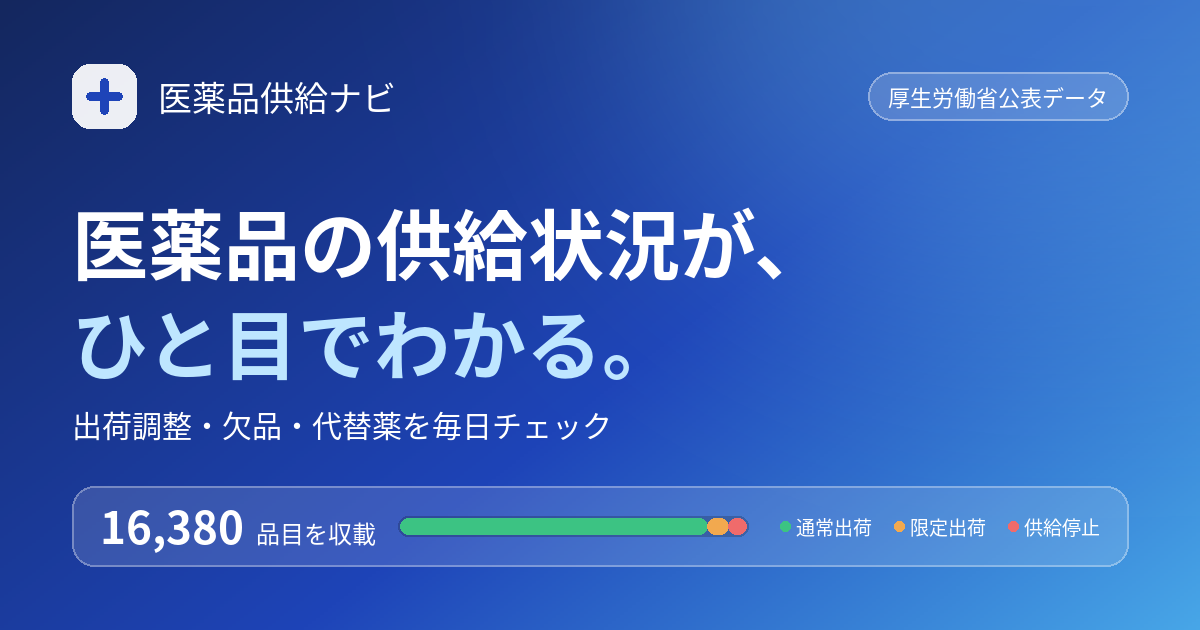
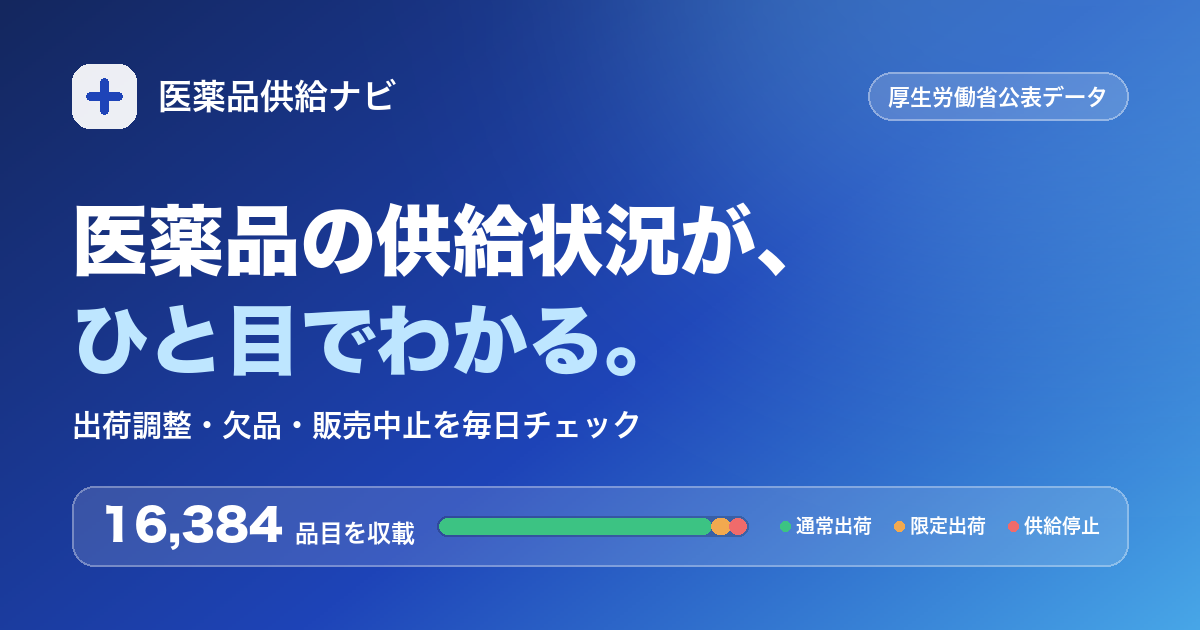
公開Web版の安全表現とスマホ検索導線を改善 (#12)

diff --git a/index.html b/index.html
@@ -3,10 +3,10 @@
 <head>
 <meta charset="UTF-8">
 <meta name="viewport" content="width=device-width, initial-scale=1.0">
-<title>医薬品供給ナビ — 出荷調整・欠品・代替薬を毎日チェック</title>
-<meta name="description" content="厚生労働省の医薬品供給状況データを、毎日自動更新でどこよりも見やすく。限定出荷・供給停止・販売中止をスマホでもPCでも一瞬で確認できる医薬品供給ナビ。">
+<title>医薬品供給ナビ — 出荷調整・欠品・販売中止を毎日チェック</title>
+<meta name="description" content="厚生労働省の医薬品供給状況データを毎日自動更新。限定出荷・供給停止・販売中止と、同成分・同剤形の関連品目をスマホでもPCでも確認できます。">
 <meta property="og:title" content="医薬品供給ナビ">
-<meta property="og:description" content="出荷調整・欠品・代替薬を毎日チェック。厚労省データを最速・最良のUIで。">
+<meta property="og:description" content="出荷調整・欠品・販売中止と、同成分・同剤形の関連品目を毎日チェック。厚労省データを見やすく検索。">
 <meta property="og:type" content="website">
 <meta property="og:url" content="https://tkiyo1007-eng.github.io/drugs-data/">
 <meta property="og:image" content="https://tkiyo1007-eng.github.io/drugs-data/og_image.png">
@@ -15,7 +15,7 @@
 <meta property="og:image:alt" content="医薬品供給ナビの供給状況サマリー">
 <meta name="twitter:card" content="summary_large_image">
 <meta name="twitter:title" content="医薬品供給ナビ">
-<meta name="twitter:description" content="出荷調整・欠品・代替薬を毎日チェック。厚労省データを最速・最良のUIで。">
+<meta name="twitter:description" content="出荷調整・欠品・販売中止と、同成分・同剤形の関連品目を毎日チェック。厚労省データを見やすく検索。">
 <meta name="twitter:image" content="https://tkiyo1007-eng.github.io/drugs-data/og_image.png">
 <meta name="twitter:image:alt" content="医薬品供給ナビの供給状況サマリー">
 <meta name="apple-itunes-app" content="app-id=6777696446">
@@ -34,7 +34,7 @@
       "name": "医薬品供給ナビ",
       "alternateName": "いやくひんきょうきゅうなび",
       "url": "https://tkiyo1007-eng.github.io/drugs-data/",
-      "description": "厚生労働省の医薬品供給状況データを毎日自動更新。限定出荷・供給停止・販売中止・代替薬をスマホでもPCでも一瞬で確認。",
+      "description": "厚生労働省の医薬品供給状況データを毎日自動更新。限定出荷・供給停止・販売中止と、同成分・同剤形の関連品目をスマホでもPCでも確認。",
       "inLanguage": "ja"
     },
     {
@@ -44,7 +44,7 @@
       "applicationCategory": "MedicalApplication",
       "url": "https://apps.apple.com/jp/app/id6777696446",
       "offers": { "@type": "Offer", "price": "0", "priceCurrency": "JPY" },
-      "description": "出荷調整・欠品・代替薬を毎日チェックできる無料iOSアプリ。厚労省の医薬品供給状況データ約16,000品目を毎日自動更新。"
+      "description": "出荷調整・欠品・販売中止を毎日チェックできる無料iOSアプリ。厚労省の医薬品供給状況データ約16,000品目を毎日自動更新。"
     },
     {
       "@type": "FAQPage",
@@ -299,6 +299,26 @@ h1 .grad{
 .chip2{bottom:-20px;right:-16px;color:var(--stopped);animation-delay:1.6s}
 @keyframes float{0%,100%{transform:translateY(0)}50%{transform:translateY(-9px)}}
 @media(max-width:900px){.chip1{left:0}.chip2{right:0}}
+
+/* スマホでは検索が最初の画面から遠くならないよう、ヒーローを要点だけに圧縮する。
+   App Store導線は固定ナビにもあるため、ヒーロー内はWeb検索を主導線にする。 */
+@media(max-width:640px){
+  nav{top:10px;width:calc(100% - 20px);padding:8px 10px 8px 14px}
+  .brand{font-size:14px}.brand-mark{width:32px;height:32px}
+  .nav-cta{padding:8px 14px;font-size:12.5px}
+  header{padding:82px 20px 20px;gap:14px}
+  .eyebrow{margin-bottom:14px;padding:5px 11px;font-size:11.5px}
+  h1{font-size:32px;margin-bottom:10px}
+  .lede{font-size:14px;line-height:1.7;margin-bottom:16px}
+  header .btn-primary,header .hero-note{display:none}
+  .btn-ghost{padding:11px 18px;font-size:14px}
+  .pulse-card{padding:18px 20px;border-radius:22px}
+  .pulse-total{font-size:36px;margin-top:7px}
+  .pulse-sub,.supply-bar,.legend,.float-chip{display:none}
+  main section{padding:52px 20px}
+  #demo{padding-top:28px}
+  #demo .sec-lede{margin-bottom:24px}
+}
 
 /* ===== セクション共通 ===== */
 section{max-width:1120px;margin:0 auto;padding:76px 24px}
@@ -991,7 +1011,7 @@ footer a:hover{color:var(--blue)}
   <div>
     <span class="eyebrow"><span class="pulse"></span>厚生労働省データ・毎日自動更新</span>
     <h1><span class="nb">医薬品の</span><span class="nb">供給状況が、</span><br><span class="grad">ひと目でわかる。</span></h1>
-    <p class="lede">限定出荷・供給停止・販売中止・代替薬。現場が毎日確認するその情報を、厚労省の公式データからどこよりも速く、どこよりも見やすく。薬剤師・医療従事者のための供給状況チェックツールです。</p>
+    <p class="lede">限定出荷・供給停止・販売中止と、同成分・同剤形の関連品目を、厚労省データから速く、見やすく確認。薬剤師・医療従事者のための供給状況チェックツールです。</p>
     <div class="cta-row">
       <a class="btn-primary" href="https://apps.apple.com/jp/app/%E5%8C%BB%E8%96%AC%E5%93%81%E4%BE%9B%E7%B5%A6%E3%83%8A%E3%83%93/id6777696446" target="_blank" rel="noopener">
         <svg width="18" height="18" viewBox="0 0 24 24" fill="currentColor"><path d="M18.7 12.6c0-3 2.5-4.5 2.6-4.6-1.4-2.1-3.6-2.4-4.4-2.4-1.9-.2-3.6 1.1-4.6 1.1-.9 0-2.4-1.1-4-1-2 0-3.9 1.2-5 3-2.1 3.7-.5 9.1 1.5 12.1 1 1.5 2.2 3.1 3.8 3 1.5-.1 2.1-1 3.9-1s2.4 1 4 1 2.7-1.5 3.7-2.9c1.2-1.7 1.6-3.3 1.7-3.4-.1-.1-3.2-1.3-3.2-4.9zM15.6 3.5c.8-1 1.4-2.4 1.2-3.5-1.2 0-2.7.8-3.5 1.8-.8.9-1.5 2.3-1.3 3.7 1.4.1 2.8-.9 3.6-2z"/></svg>
@@ -1109,7 +1129,7 @@ footer a:hover{color:var(--blue)}
     </div>
     <div class="news-item">
       <div class="news-date num">2026.07.21</div>
-      <div class="news-body"><span class="news-tag">改善</span>詳細画面の「同成分・同剤形の品目」「同じ薬効分類の同系統医薬品」の並び順を改善しました。薬価削除予定の品目が「入手しやすい代替品」として上位に出ないよう調整しています。</div>
+      <div class="news-body"><span class="news-tag">改善</span>詳細画面の関連品目を「同成分・同剤形」に限定しました。薬価削除予定の品目が「入手しやすい品目」として上位に出ないよう調整しています。</div>
     </div>
     <div class="news-item">
       <div class="news-date num">2026.07.20</div>
@@ -1121,11 +1141,11 @@ footer a:hover{color:var(--blue)}
     </div>
     <div class="news-item">
       <div class="news-date num">2026.07.17</div>
-      <div class="news-body"><span class="news-tag">機能追加</span>出荷調整品の詳細に「案内文のポイント（AI要約）」を追加しました。メーカー案内文PDFの要点（停止理由・再開見込み・代替候補）が3行でわかります。<p>あわせて、PMDA新着の回収・安全対策情報をまとめた「医療ニュース」をお知らせ欄に開設。同成分・同分類の関連品目一覧も、剤形・系統まで一致するものに絞り込んで精度を改善しました。</p><p>薬価データも大幅拡充（収載品目の約95%をカバー）。iOSアプリ版v1.5にも同じ機能が搭載されます。</p></div>
+      <div class="news-body"><span class="news-tag">機能追加</span>出荷調整品の詳細に「案内文のポイント（AI要約）」を追加しました。メーカー案内文PDFの要点（停止理由・再開見込み・案内文に記載された候補）が3行でわかります。<p>あわせて、PMDA新着の回収・安全対策情報をまとめた「医療ニュース」をお知らせ欄に開設。同成分・同剤形の関連品目一覧も、剤形・系統まで一致するものに絞り込んで精度を改善しました。</p><p>薬価データも大幅拡充（収載品目の約95%をカバー）。iOSアプリ版v1.5にも同じ機能が搭載されます。</p></div>
     </div>
     <div class="news-item">
       <div class="news-date num">2026.07.12</div>
-      <div class="news-body"><span class="news-tag">機能追加</span>Web版に、iOSアプリ版の新機能をまとめて追加しました。<p>【お気に入り】品目の★を押すとこのブラウザに保存され、供給状況が変わったとき検索結果の上にお知らせが表示されます（定点観測がWebでも可能に）。</p><p>【本日の更新】絞り込みに「本日の更新」が加わり、その日実際に供給状況が変わった品目だけを一覧できます。</p><p>【詳細画面】添付文書を探せるPMDA公式検索へのリンク（品目名入力済み）、出荷再開・解除の見込み、同成分の他社品・同じ薬効分類の医薬品の一覧を追加しました。</p><p>【CSV保存】検索結果をCSVファイルとしてダウンロードできるようになりました（DI業務のリスト作成に）。</p></div>
+      <div class="news-body"><span class="news-tag">機能追加</span>Web版に、iOSアプリ版の新機能をまとめて追加しました。<p>【お気に入り】品目の★を押すとこのブラウザに保存され、供給状況が変わったとき検索結果の上にお知らせが表示されます（定点観測がWebでも可能に）。</p><p>【本日の更新】絞り込みに「本日の更新」が加わり、その日実際に供給状況が変わった品目だけを一覧できます。</p><p>【詳細画面】添付文書を探せるPMDA公式検索へのリンク（品目名入力済み）、出荷再開・解除の見込み、同成分・同剤形の関連品目一覧を追加しました。</p><p>【CSV保存】検索結果をCSVファイルとしてダウンロードできるようになりました（DI業務のリスト作成に）。</p></div>
     </div>
     <div class="news-item">
       <div class="news-date num">2026.07.11</div>
@@ -1137,7 +1157,7 @@ footer a:hover{color:var(--blue)}
     </div>
     <div class="news-item">
       <div class="news-date num">2026.07.08</div>
-      <div class="news-body"><span class="news-tag">機能追加</span>薬品名クリックで詳細情報を表示できるようになりました。規格・薬価・代替候補など、厚生労働省データの全項目を確認できます。<p>あわせて複数キーワードでの絞り込み検索にも対応しました。</p></div>
+      <div class="news-body"><span class="news-tag">機能追加</span>薬品名クリックで詳細情報を表示できるようになりました。規格・薬価・解除／解消見込み・出荷量状況など、厚生労働省データの各項目を確認できます。<p>あわせて複数キーワードでの絞り込み検索にも対応しました。</p></div>
     </div>
     <div class="news-item">
       <div class="news-date num">2026.07.07</div>
@@ -1174,7 +1194,7 @@ footer a:hover{color:var(--blue)}
     <div class="feature glass">
       <div class="f-icon"><svg width="24" height="24" viewBox="0 0 24 24" fill="none" stroke="currentColor" stroke-width="2" stroke-linecap="round" stroke-linejoin="round"><path d="M21 15a2 2 0 0 1-2 2H7l-4 4V5a2 2 0 0 1 2-2h14a2 2 0 0 1 2 2z"/></svg></div>
       <h3>現場の声が集まる掲示板</h3>
-      <p>「この代替薬で乗り切っている」──同じ悩みを持つ医療従事者どうしで情報交換できるコミュニティを内蔵しています。</p>
+      <p>「この状況にどう対応しているか」──同じ悩みを持つ医療従事者どうしで情報交換できるコミュニティを内蔵しています。</p>
     </div>
     <div class="feature glass">
       <div class="f-icon"><svg width="24" height="24" viewBox="0 0 24 24" fill="none" stroke="currentColor" stroke-width="2" stroke-linecap="round" stroke-linejoin="round"><rect x="5" y="2" width="14" height="20" rx="3"/><path d="M12 18h.01"/></svg></div>
@@ -1199,7 +1219,7 @@ footer a:hover{color:var(--blue)}
         <tr><th scope="row">変化のあった品目の時系列表示</th><td class="col-us yes">◎ 前日差分を自動検出</td><td class="no">— 各回のスナップショットのみ</td></tr>
         <tr><th scope="row">お気に入り登録・定点観測</th><td class="col-us yes">◎ 変化があればお知らせ</td><td class="no">—</td></tr>
         <tr><th scope="row">全体像のサマリー可視化</th><td class="col-us yes">◎ 構成比・供給危機指数</td><td class="no">—</td></tr>
-        <tr><th scope="row">品目ごとの関連情報</th><td class="col-us yes">◎ 代替候補・メーカー案内文・同成分の他社品</td><td class="no">— 一部は別資料を要確認</td></tr>
+        <tr><th scope="row">品目ごとの関連情報</th><td class="col-us yes">◎ メーカー案内文・同成分／同剤形の関連品目</td><td class="no">— 一部は別資料を要確認</td></tr>
         <tr><th scope="row">医療従事者コミュニティ</th><td class="col-us yes">◎ 掲示板内蔵（iOSアプリ）</td><td class="no">—</td></tr>
       </tbody>
     </table>

diff --git a/scripts/test_web_content.py b/scripts/test_web_content.py
@@ -1,0 +1,35 @@
+import unittest
+from pathlib import Path
+
+
+ROOT = Path(__file__).resolve().parents[1]
+
+
+class PublishedWebContentTests(unittest.TestCase):
+    @classmethod
+    def setUpClass(cls):
+        cls.html = (ROOT / "index.html").read_text(encoding="utf-8")
+
+    def test_current_copy_does_not_promise_same_class_alternatives(self):
+        unsafe_claims = [
+            "同じ薬効分類の同系統医薬品",
+            "同成分・同分類の関連品目一覧",
+            "同じ薬効分類の医薬品の一覧",
+            "規格・薬価・代替候補など",
+        ]
+        for claim in unsafe_claims:
+            with self.subTest(claim=claim):
+                self.assertNotIn(claim, self.html)
+
+    def test_metadata_and_hero_match_the_safe_related_item_scope(self):
+        self.assertIn("出荷調整・欠品・販売中止を毎日チェック", self.html)
+        self.assertIn("同成分・同剤形の関連品目", self.html)
+        self.assertIn("解除／解消見込み・出荷量状況", self.html)
+
+    def test_mobile_search_compaction_is_published(self):
+        self.assertIn("#demo{padding-top:28px}", self.html)
+        self.assertIn(".pulse-sub,.supply-bar,.legend,.float-chip{display:none}", self.html)
+
+
+if __name__ == "__main__":
+    unittest.main()
